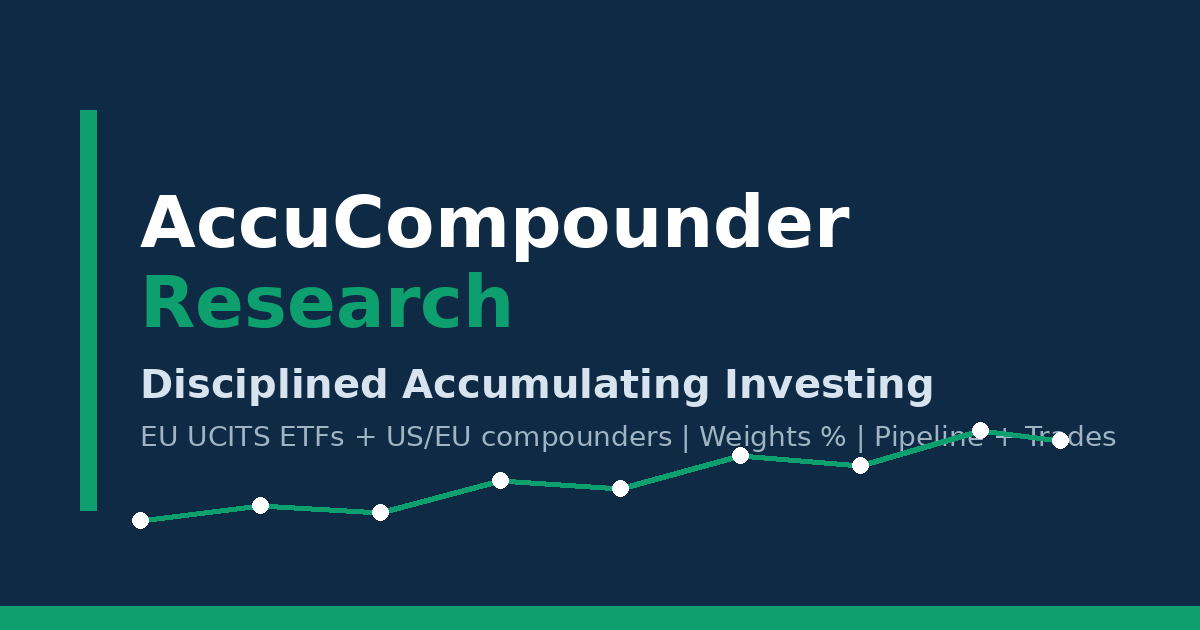
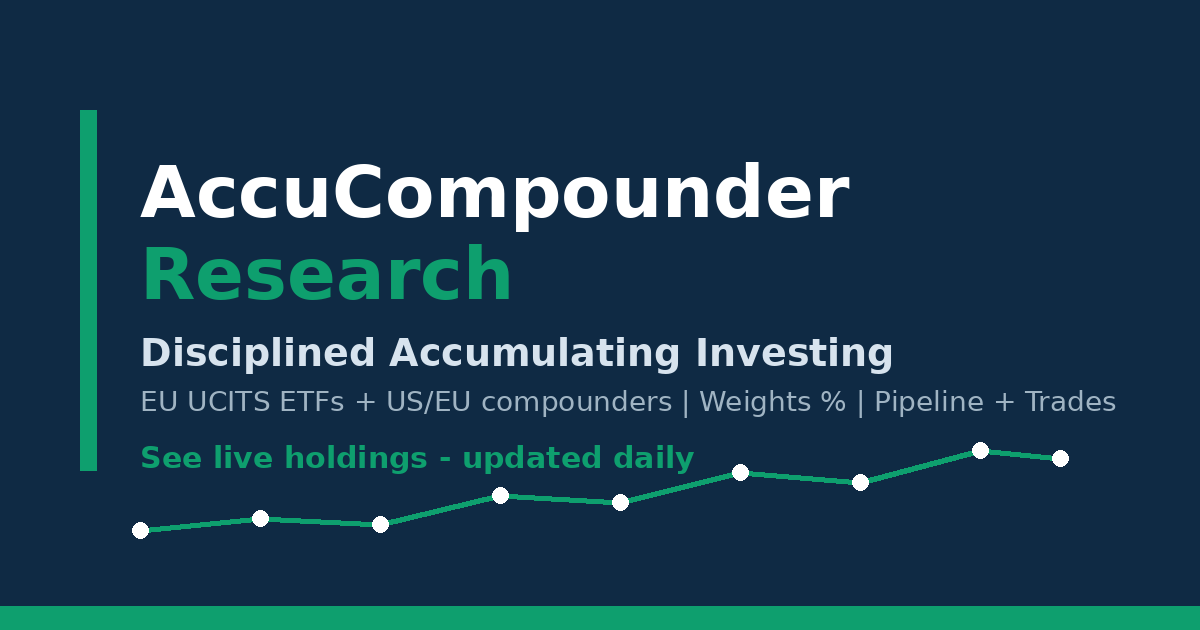
SME ronde: P&L KPIs, you-tekst, trades zonder HOLD, dynamic methodology, eerlijke benchmark-labels, OG-CTA

Changed region(s): [[0.0925, 0.2413, 0.925, 0.8746], [0.0617, 0.754, 0.0925, 0.8143]]

diff --git a/methodology.html b/methodology.html
@@ -12,7 +12,18 @@
 <a href="index.html">Home</a><a href="portfolio.html">Portfolio</a><a href="pipeline.html">Pipeline</a><a href="trades.html">Trades</a><a href="methodology.html" class="active">Methodology</a><a href="tearsheet.html">Tearsheet</a></nav></header>
 <main><h1>Methodology</h1>
 <div class="card"><h3>1. Universe</h3><p>ETFs: only European accumulating UCITS. Stocks: only accumulating US + EU growers (no dividend-chasers). Long-only, no leverage.</p></div>
-<div class="card"><h3>2. Consolidated Advisors</h3><p>Stock Advisor (11 tickers tracked, e.g. WAT / HALO / ARW top conviction) + ETF Advisor (73 tickers, 5 BUY / 22 ACCUMULATE). Dozens of signals → one weighted score → HOLD/BUY/TRIM/SELL + human check.</p></div>
-<div class="card"><h3>3. Honest reporting</h3><p>Weights in %, losers visible (e.g. XCHA.DE -3.34%, ASWC.DE -5.29%, DKNG -12.37%), winners visible (USPY.DE +54.33%, HALO +52.56%). Benchmark MSCI World / S&P 500 always alongside.</p></div>
-<div class="card"><h3>4. Risk & disclaimer</h3><p>Educational showcase only. Not financial advice. Position caps, sector-concentration guard (e.g. Technology 45% flagged). Regime audit log-only, never a trade trigger.</p></div>
-</main><footer>© AccuCompounder Research — Educational showcase only. Not financial advice. Past performance ≠ future results. | <a href="trades.xml">RSS Trades</a> | <a href="tearsheet.html">Tearsheet</a></footer></body></html>
+<div class="card"><h3>2. Consolidated Advisors <span class="badge" id="m-upd">live</span></h3><p id="m-adv">Loading live advisor stats…</p><p>Dozens of signals → one weighted score → HOLD/BUY/TRIM/SELL + human check. Full queue on the <a href="pipeline.html">Pipeline</a> page.</p></div>
+<div class="card"><h3>3. Position sizing</h3><p><b>Core</b> = sleeve weight ≥15%, <b>Satellite</b> below. Simple, mechanical, no storytelling — current labels on the <a href="portfolio.html">Portfolio</a> page.</p></div>
+<div class="card"><h3>4. Honest reporting</h3><p id="m-honest">Weights in %, losers and winners always visible. Benchmark MSCI World / S&amp;P 500 always alongside.</p></div>
+<div class="card"><h3>5. Risk & disclaimer</h3><p>Educational showcase only. Not financial advice. Position caps, sector-concentration guard (e.g. Technology 45% flagged). Regime audit log-only, never a trade trigger.</p></div>
+</main><footer>© AccuCompounder Research — Educational showcase only. Not financial advice. Past performance ≠ future results. | <a href="trades.xml">RSS Trades</a> | <a href="tearsheet.html">Tearsheet</a></footer>
+<script>
+Promise.all([fetch('data/pipeline.json').then(r=>r.json()),fetch('data/holdings.json').then(r=>r.json())]).then(([p,h])=>{
+ const sd=p.stock_distribution||{}, ed=p.etf_distribution||{};
+ const sCount=Object.values(sd).reduce((a,b)=>a+b,0), eCount=Object.values(ed).reduce((a,b)=>a+b,0);
+ document.getElementById('m-upd').textContent='updated '+p.updated;
+ document.getElementById('m-adv').textContent=`Stock Advisor (${sCount} tickers: `+Object.entries(sd).map(([k,v])=>`${v} ${k}`).join(' / ')+`) — top: ${(p.stocks_watch||[]).slice(0,3).map(x=>x.ticker).join(' / ')} | ETF Advisor (${eCount} tickers: `+Object.entries(ed).map(([k,v])=>`${v} ${k}`).join(' / ')+') — queue: '+(p.etf_queue||[]).slice(0,3).map(x=>x.ticker).join(' / ');
+ const w=[...h.etfs.map(x=>`${x.ticker} ${x.pnl_pct}%`),...h.stocks.map(x=>`${x.ticker} ${x.pnl_pct}%`)];
+ document.getElementById('m-honest').textContent=`Live sleeve P&L: ETFs ${h.etf_pnl_pct}%, stocks ${h.stock_pnl_pct}%. Per holding: ${w.join(', ')}. Weights in %, benchmarks always alongside.`;
+});
+</script></body></html>

diff --git a/index.html b/index.html
@@ -31,8 +31,8 @@
 <div class="card"><h3>2 Consolidated Advisors</h3><p>Stock Advisor + ETF Advisor score dozens of signals into one conviction view. Pipeline page shows WATCH → CANDIDATE → QUEUED live.</p></div>
 <div class="card"><h3>Honest reporting</h3><p>Losers stay visible. Benchmark always shown. Trades published same-day with reason. Educational only.</p></div>
 </div>
-<div class="card" style="margin-top:14px"><h3>Performance vs benchmarks (rebased to 100)</h3><div id="bench" style="height:320px"></div>
-<p style="color:#5B6B7C;font-size:13px">Portfolio = advisor picks index. Benchmarks: URTH (MSCI World) + SPY (S&amp;P 500) via free yfinance. Source: <code>data/benchmark.json</code>.</p></div>
+<div class="card" style="margin-top:14px"><h3>Advisor picks vs benchmarks (rebased to 100)</h3><div id="bench" style="height:320px"></div>
+<p style="color:#5B6B7C;font-size:13px">Paper line = all advisor picks index (176 picks, win rate ~27% — losers included, that is why it trails). Real money lives on the <a href="portfolio.html">Portfolio</a> page: ETF sleeve <b id="k-etf">–</b>, stock sleeve <b id="k-stk">–</b>. Benchmarks: URTH (MSCI World) + SPY (S&amp;P 500) via free yfinance. Live-holdings history logging started Sept 2026 — the money-weighted line builds from here.</p></div>
 <div class="card" style="margin-top:14px"><h3>Allocation (% only, no euros)</h3><div id="alloc" style="height:320px"></div>
 <p style="color:#5B6B7C;font-size:13px">Source: <code>data/holdings.json</code> — auto-exported daily via GitHub Actions. Privacy-safe: tickers + % only.</p></div>
 </main>
@@ -45,14 +45,16 @@ fetch('data/holdings.json').then(r=>r.json()).then(d=>{
   <div class="kpi"><b>${d.etf_pnl_pct}%</b><br><span>ETF P&L %</span></div>
   <div class="kpi"><b>${d.stock_pnl_pct}%</b><br><span>Stock P&L %</span></div>
   <div class="kpi"><b>100% free</b><br><span>GitHub Pages</span></div>`;
- var chart=echarts.init(document.getElementById('alloc'));
+  document.getElementById('k-etf').textContent=d.etf_pnl_pct+'%';
+  document.getElementById('k-stk').textContent=d.stock_pnl_pct+'%';
+  var chart=echarts.init(document.getElementById('alloc'));
  var data=[...d.etfs.map(x=>({value:x.weight_pct,name:x.ticker+' (ETF)'})),...d.stocks.map(x=>({value:x.weight_pct,name:x.ticker+' (Stock)'}))];
  chart.setOption({tooltip:{},series:[{type:'pie',radius:['45%','70%'],data}]});
 });
 fetch('data/benchmark.json').then(r=>r.json()).then(b=>{
  var c=echarts.init(document.getElementById('bench'));
- c.setOption({tooltip:{trigger:'axis'},legend:{data:['Portfolio','MSCI World (URTH)','S&P500 (SPY)']},xAxis:{type:'category',data:b.dates},yAxis:{type:'value'},series:[
-  {name:'Portfolio',type:'line',data:b.portfolio_norm,smooth:true},
+  c.setOption({tooltip:{trigger:'axis'},legend:{data:['Picks index (paper)','MSCI World (URTH)','S&P500 (SPY)']},xAxis:{type:'category',data:b.dates},yAxis:{type:'value'},series:[
+   {name:'Picks index (paper)',type:'line',data:b.portfolio_norm,smooth:true},
   {name:'MSCI World (URTH)',type:'line',data:b.msci_world_norm,smooth:true},
   {name:'S&P500 (SPY)',type:'line',data:b.sp500_norm,smooth:true}]});
 });

diff --git a/portfolio.html b/portfolio.html
@@ -11,7 +11,10 @@
 <header><nav class="nav"><span class="brand">AccuCompounder <small>Research</small></span>
 <a href="index.html">Home</a><a href="portfolio.html" class="active">Portfolio</a><a href="pipeline.html">Pipeline</a><a href="trades.html">Trades</a><a href="methodology.html">Methodology</a><a href="tearsheet.html">Tearsheet</a></nav></header>
 <main><h1>Portfolio — weights in %</h1>
-<p>Privacy-safe: only tickers, weights %, P&L %. No euros, no share counts. UCITS accumulating ETFs + US/EU compounders.</p>
+<div class="kpis"><div class="kpi"><b id="etf-pnl">–</b><br><span>ETF sleeve total P&amp;L</span></div>
+<div class="kpi"><b id="stk-pnl">–</b><br><span>Stock sleeve total P&amp;L</span></div>
+<div class="kpi"><b id="n-hold">–</b><br><span>Holdings</span></div></div>
+<p>UCITS accumulating ETFs + US/EU compounders. Core = sleeve weight ≥15%, Satellite below — full rule in <a href="methodology.html">Methodology</a>.</p>
 <h2>ETFs</h2><table id="etf"><tr><th>Ticker</th><th>Weight %</th><th>P&L %</th><th>Status</th></tr></table>
 <h2>Stocks</h2><table id="stk"><tr><th>Ticker</th><th>Weight %</th><th>P&L %</th><th>Status</th></tr></table>
 <p style="color:#5B6B7C">Example live holdings: USPY.DE 23.79% (+54.33%), QDVF.DE 19.98%, HALO 60.97% of stock sleeve (+52.56%), SMFG 24.51%, DKNG 14.51%. Full table auto-updates from <code>data/holdings.json</code>.</p>
@@ -21,5 +24,9 @@ fetch('data/holdings.json').then(r=>r.json()).then(d=>{
  const row=x=>`<tr><td><b>${x.ticker}</b></td><td>${x.weight_pct}%</td><td class="${x.pnl_pct>=0?'pos':'neg'}">${x.pnl_pct}%</td><td><span class="badge ${x.status==='Core'?'core':'sat'}">${x.status}</span></td></tr>`;
  document.getElementById('etf').innerHTML+=''+d.etfs.map(row).join('');
  document.getElementById('stk').innerHTML+=''+d.stocks.map(row).join('');
+ const fmt=v=>`<span class="${v>=0?'pos':'neg'}">${v}%</span>`;
+ document.getElementById('etf-pnl').innerHTML=fmt(d.etf_pnl_pct);
+ document.getElementById('stk-pnl').innerHTML=fmt(d.stock_pnl_pct);
+ document.getElementById('n-hold').textContent=d.etfs.length+d.stocks.length;
 });
 </script></body></html>

diff --git a/trades.html b/trades.html
@@ -11,7 +11,7 @@
 <header><nav class="nav"><span class="brand">AccuCompounder <small>Research</small></span>
 <a href="index.html">Home</a><a href="portfolio.html">Portfolio</a><a href="pipeline.html">Pipeline</a><a href="trades.html" class="active">Trades</a><a href="methodology.html">Methodology</a><a href="tearsheet.html">Tearsheet</a></nav></header>
 <main><h1>Trades — every buy & sell disclosed</h1>
-<p>Same-day publication with reason. Subscribe via <a href="trades.xml">RSS</a>.</p>
+<p>Only real transactions — no hold-snapshots (holdings live on <a href="portfolio.html">Portfolio</a>). Same-day publication with reason. Follow automatically via <a href="trades.xml">RSS</a>: paste that link in any feed reader (Feedly, Inoreader, Thunderbird) and you get each new trade without a newsletter.</p>
 <div class="timeline" id="tl"></div></main><footer>© AccuCompounder Research — Educational showcase only. Not financial advice. Past performance ≠ future results. | <a href="trades.xml">RSS Trades</a> | <a href="tearsheet.html">Tearsheet</a></footer>
 <script>
 fetch('data/trades.json').then(r=>r.json()).then(d=>{

diff --git a/pipeline.html b/pipeline.html
@@ -11,7 +11,7 @@
 <header><nav class="nav"><span class="brand">AccuCompounder <small>Research</small></span>
 <a href="index.html">Home</a><a href="portfolio.html">Portfolio</a><a href="pipeline.html" class="active">Pipeline</a><a href="trades.html">Trades</a><a href="methodology.html">Methodology</a><a href="tearsheet.html">Tearsheet</a></nav></header>
 <main><h1>Pipeline — what’s next?</h1>
-<p>Two consolidated advisors. Reader sees exactly what’s in the queue before we buy.</p>
+<p>Two consolidated advisors. You see exactly what’s in the queue before we buy.</p>
 <div class="grid"><div class="card"><h3>Stock Advisor</h3><p id="ss"></p><table id="st"><tr><th>Ticker</th><th>Advice</th><th>Score</th></tr></table></div>
 <div class="card"><h3>ETF Advisor</h3><p id="es"></p><table id="et"><tr><th>Ticker</th><th>Advice</th><th>Score</th></tr></table></div></div>
 <p style="color:#5B6B7C">Stages: WATCH → CANDIDATE → QUEUED → BUY. Scores are weighted multi-signal composites. Market-regime badge is context-only (log-only audit).</p>
